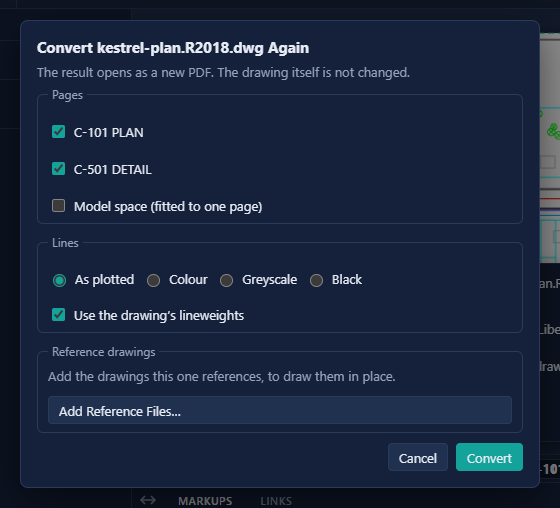
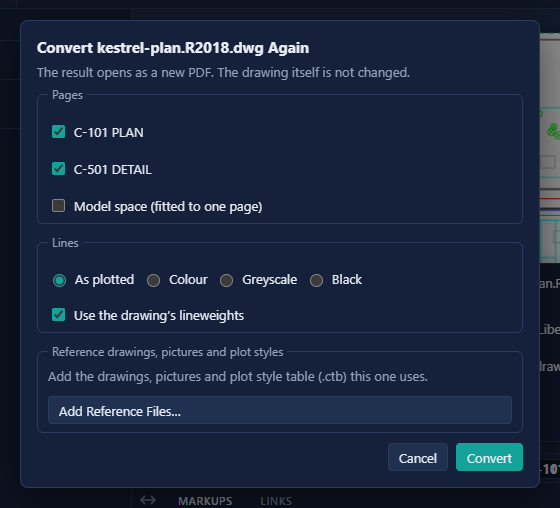
DWG import phase 4: status in the plan; Convert Again screenshot (#230)

Changed region(s): [[0.2732, 0.7087, 0.7589, 0.7677], [0.2732, 0.6791, 0.5161, 0.7087]]

diff --git a/docs/dwg-import-plan.md b/docs/dwg-import-plan.md
@@ -295,6 +295,49 @@ its report are kept for the visit only. The worker chunk is 1.2 MB (531 KB gzip)
 is pdf-lib and fontkit, which the app already loads but a worker cannot share. That is over the
 400 KB budget set in phase 0.
 
+## Phase 4 status (2026-11-06)
+
+Checked against real drawings: 393 files, of which 183 are unique drawings (the rest are
+copies or Git LFS pointers). There are 133 R2018, 42 R2000 and 8 R2013. They stay outside the
+repo.
+
+`pnpm cad:corpus <folder> [--pdf]` converts each drawing in its own thread with a timeout and
+writes `corpus.json` and `corpus.md` (to `reference_data/cad-corpus`, not committed).
+
+Result: **183 of 183 convert**, median 250 ms, slowest 6.2 s (a 16 MB 3D model).
+
+Fixed from real drawings:
+- **Handle map sections over 2032 bytes:** the CRC follows the last entry. This was misread,
+  and 35 drawings failed.
+- **R2018 multi-line attributes:** their MTEXT carries its own entity properties. 336 objects
+  in one drawing were unreadable.
+- **Model space rotation:** model space plots turned by the active view's twist, as AutoCAD
+  plots it.
+- **Units:** unitless drawings at survey grid coordinates are taken as metres (they were
+  measuring 1000× wrong) and reported.
+- **"As plotted" colour (the new default):** monochrome and grayscale plot style tables plot
+  black and grey.
+
+Newly drawn:
+- wipeouts, as white masks;
+- tables, via their block (DWG too);
+- multileaders: leader lines, landing, arrowheads, text or block content;
+- polyface meshes, as visible face edges;
+- **pictures, PNG/JPEG supplied in Convert Again**, embedded and drawn across the image;
+- **plot style tables (.ctb) supplied in Convert Again**, giving each ACI colour its plotted
+  colour, greyscale, screening and lineweight. A page setup naming a table that wasn't
+  supplied is reported. 26 layouts in the set name one.
+
+Narrow fonts (Arial Narrow) are squeezed to their width. A plotted cover sheet compared with
+its conversion (with its `.ctb`): layout, linework and text match within about 2%.
+
+New fixtures `masks` (wipeouts, polyface) and `leaders`, with DWG copies. Converter tests: 68.
+Help: Getting Started › Open a DWG or DXF drawing, with screenshots.
+
+Still not drawn: REGION (27 drawings; the outlines are stored as 3D-modeller (ACIS) data), 3D
+solids, surfaces and bodies, OLE frames, and colour set inside MTEXT. CAD fonts are substituted
+(no SHX rendering). The Experimental label stays until these drawings have been checked in use.
+
 ## Decisions (2026-11-05)
 
 1. Engine: port the DWG reader from ACadSharp (MIT). No LibreDWG, no ODA SDK.
